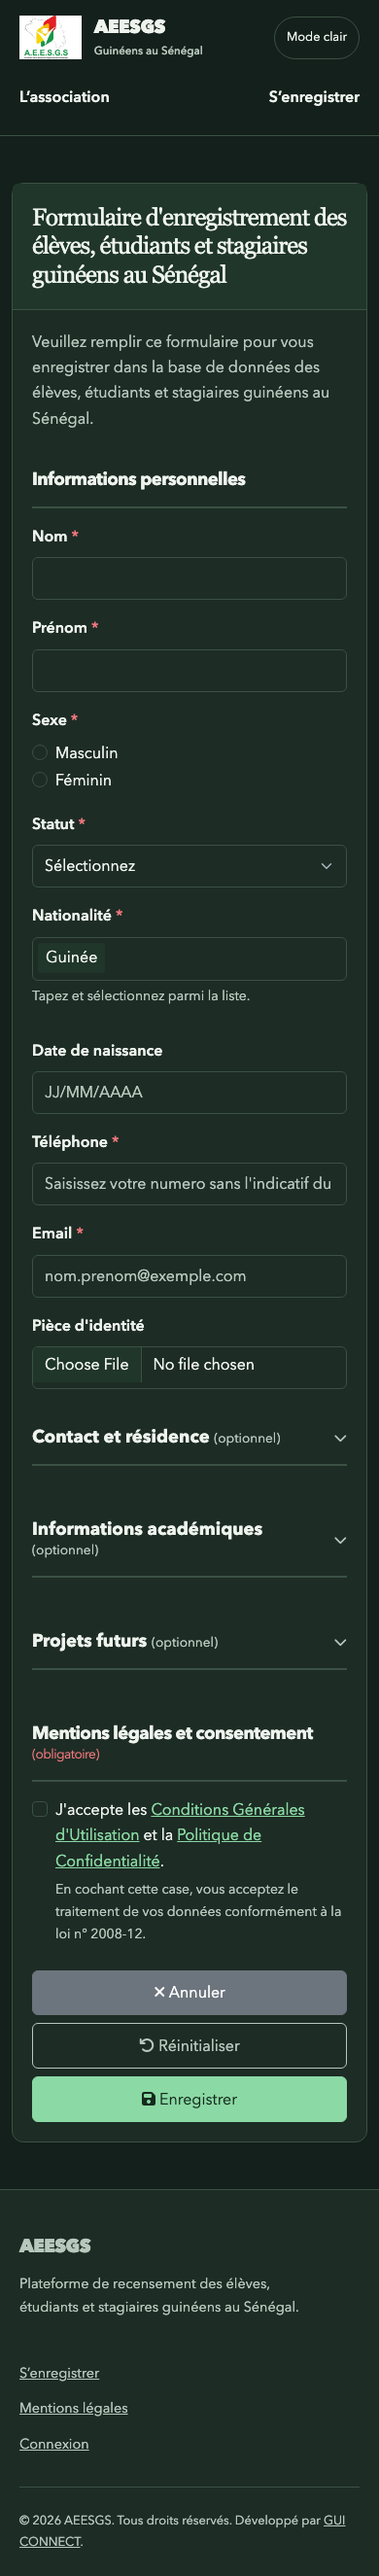
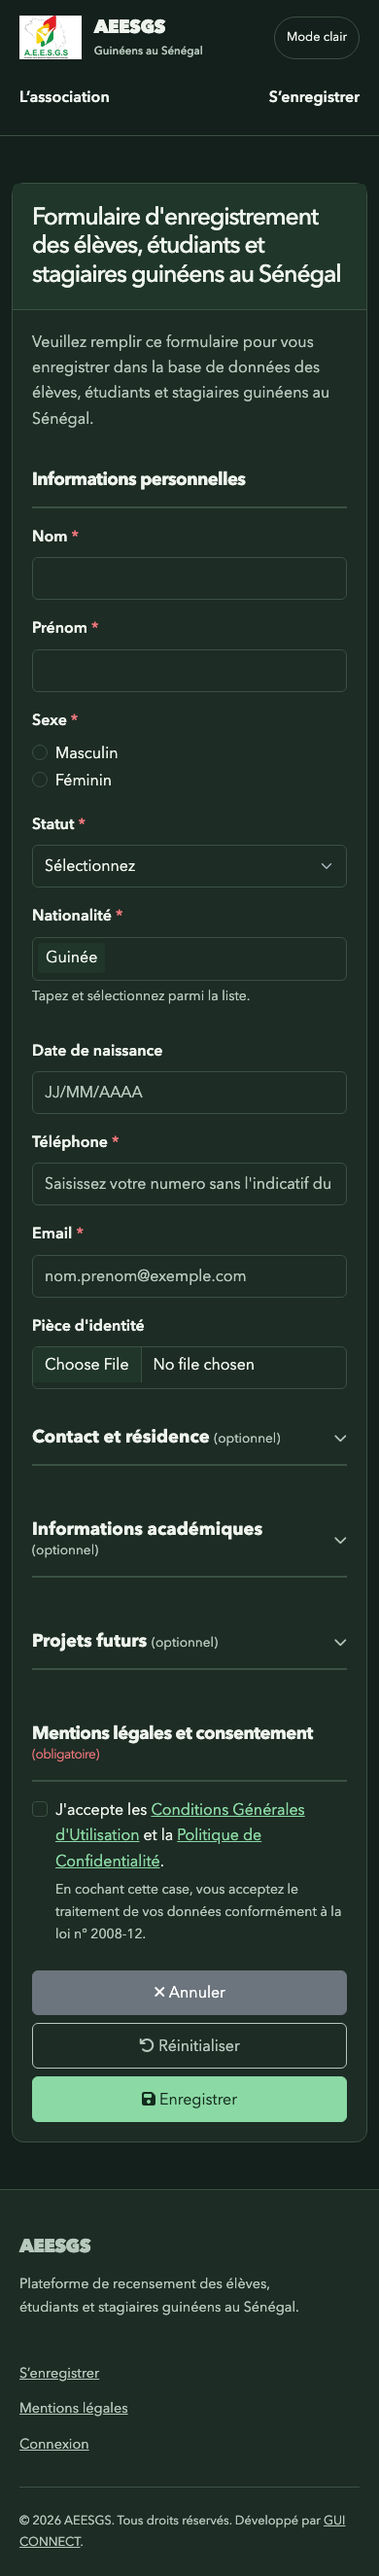
fix: preserve approved sans headings on public forms

Changed region(s): [[0.0923, 0.0619, 0.8923, 0.1238]]

diff --git a/assets/css/public-forms.css b/assets/css/public-forms.css
@@ -2,7 +2,7 @@
 .public-form-page { --bs-body-color:var(--public-text); --bs-body-bg:var(--public-surface); --bs-secondary-color:var(--public-muted); --bs-tertiary-bg:var(--public-soft); --bs-border-color:var(--public-line); color:var(--public-text); }
 .public-form-page .card { background:var(--public-surface); color:var(--public-text); border:1px solid var(--public-line); border-radius:12px; box-shadow:none!important; }
 .public-form-page .card-header { background:var(--public-soft); padding:2rem; border-bottom:1px solid var(--public-line); }
-.public-form-page h1 { max-width:30ch; color:var(--public-text); font-family:Georgia,serif; line-height:1.2; }
+.public-form-page h1 { max-width:30ch; color:var(--public-text); font-family:inherit; line-height:1.2; }
 .public-form-page .card-body { padding:2rem; }
 .public-form-page .text-muted,.public-form-page .form-text { color:var(--public-muted)!important; }
 .public-form-page .form-control,.public-form-page .form-select { background-color:var(--public-surface); color:var(--public-text); border-color:var(--public-line); min-height:44px; }

diff --git a/completion.md b/completion.md
@@ -112,3 +112,5 @@ All ticket02 acceptance criteria are now verified locally. Active logo blocker r
 Implemented shared public form shell, responsive light/dark registration and review, keyboard section controls, readable field errors and protected PDF identity preview. Correction shares this template with accurate correction copy and existing optional consent semantics. Staff fields/backend rules preserved; optional Flatpickr absence no longer prevents the rest of registration/staff editing JavaScript initialization. Static fixture serves the actual countries JSON.
 
 TDD public-shell tracer failed before implementation then passed. Local final evidence:35 HTTP +12 real Chrome assertions; eight registration/review screenshots (desktop1440/mobile390+320, light/dark), visually inspected. HTTP covers retained escaped input, upload MIME rejection with retained values, owner/foreign staged previews, review CSRF, confirmation and persisted authorized download; staff field identities aligned. PHPUnit140/240 (10 existing deprecations), permissions47, OOP186, integration78, password24 passed. [Evidence and limits](docs/testing/registration-public-journey.md). No production or SMTP action. Exact-head remote CI/integration merge and full-spec release remain pending separately.
+
+Ticket03 visual review follow-up: removed the unintended Georgia heading override so public forms inherit the approved direction B sans typography. After integrating `c075de3`, reran35 HTTP +12 Chrome checks successfully, including320px registration/review overflow checks; refreshed eight screenshots and inspected mobile heading fit. CSS-only correction; PHP suites were not repeated for this visual-only change.

diff --git a/docs/testing/registration-public-journey.md b/docs/testing/registration-public-journey.md
@@ -7,3 +7,5 @@ Red/green: a real HTTP assertion for a shared public shell and single main landm
 Eight screenshots in `screenshots/registration-*.png` show registration and review, 1440px desktop/390px mobile, light/dark. Desktop light and mobile light/dark inspected; updated contrast of Tagify and secondary links. PDF identity uses a protected preview link rather than a broken image. Review wording distinguishes pending confirmation from successful persistence.
 
 PHPUnit140 tests/240 assertions passed (10 existing deprecations). Standalone permissions47, OOP186, integration78, password24 passed on PHP8.5.12. Remote CI, MySQL/TLS isolation, real SMTP and production release are not qualified by these checks; later isolation/release tickets own those boundaries.
+
+Visual review follow-up: public form h1 inherits the approved bold sans family; the unintended serif override was removed.35 HTTP/12 Chrome checks passed again after integrationc075de3; eight screenshots refreshed, mobile title fit inspected and320px registration/review overflow checks passed.
